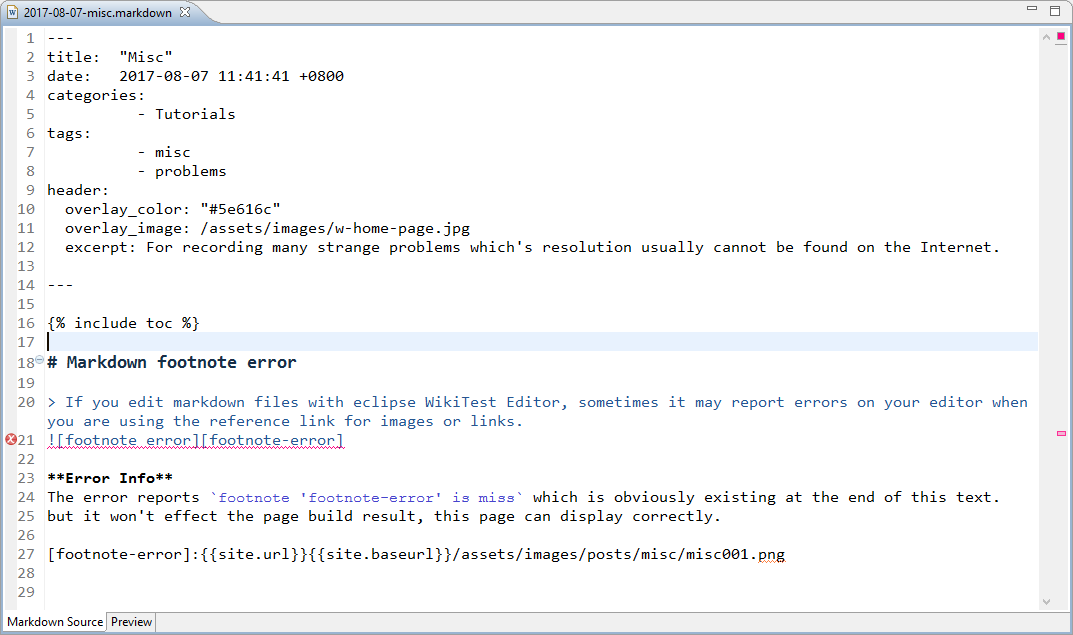
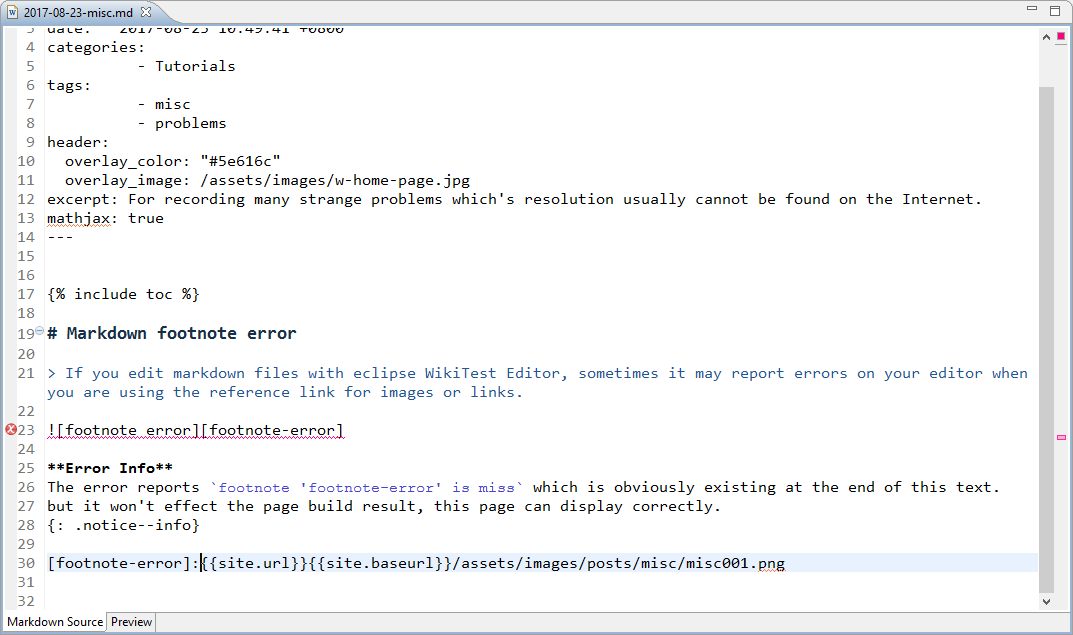
u

diff --git a/_posts/2017-08-23-misc.md b/_posts/2017-08-23-misc.md
@@ -1,6 +1,6 @@
 ---
 title:  "Misc"
-date:   2017-08-07 11:41:41 +0800
+date:   2017-08-23 10:49:41 +0800
 categories: 
           - Tutorials
 tags:          
@@ -27,5 +27,5 @@ The error reports `footnote 'footnote-error' is miss` which is obviously existin
 but it won't effect the page build result, this page can display correctly.
 {: .notice--info}
 
-[footnote-error]: {{site.url}}{{site.baseurl}}/assets/images/posts/misc/misc001.png
+[footnote-error]:{{site.url}}{{site.baseurl}}/assets/images/posts/misc/misc001.png
 
